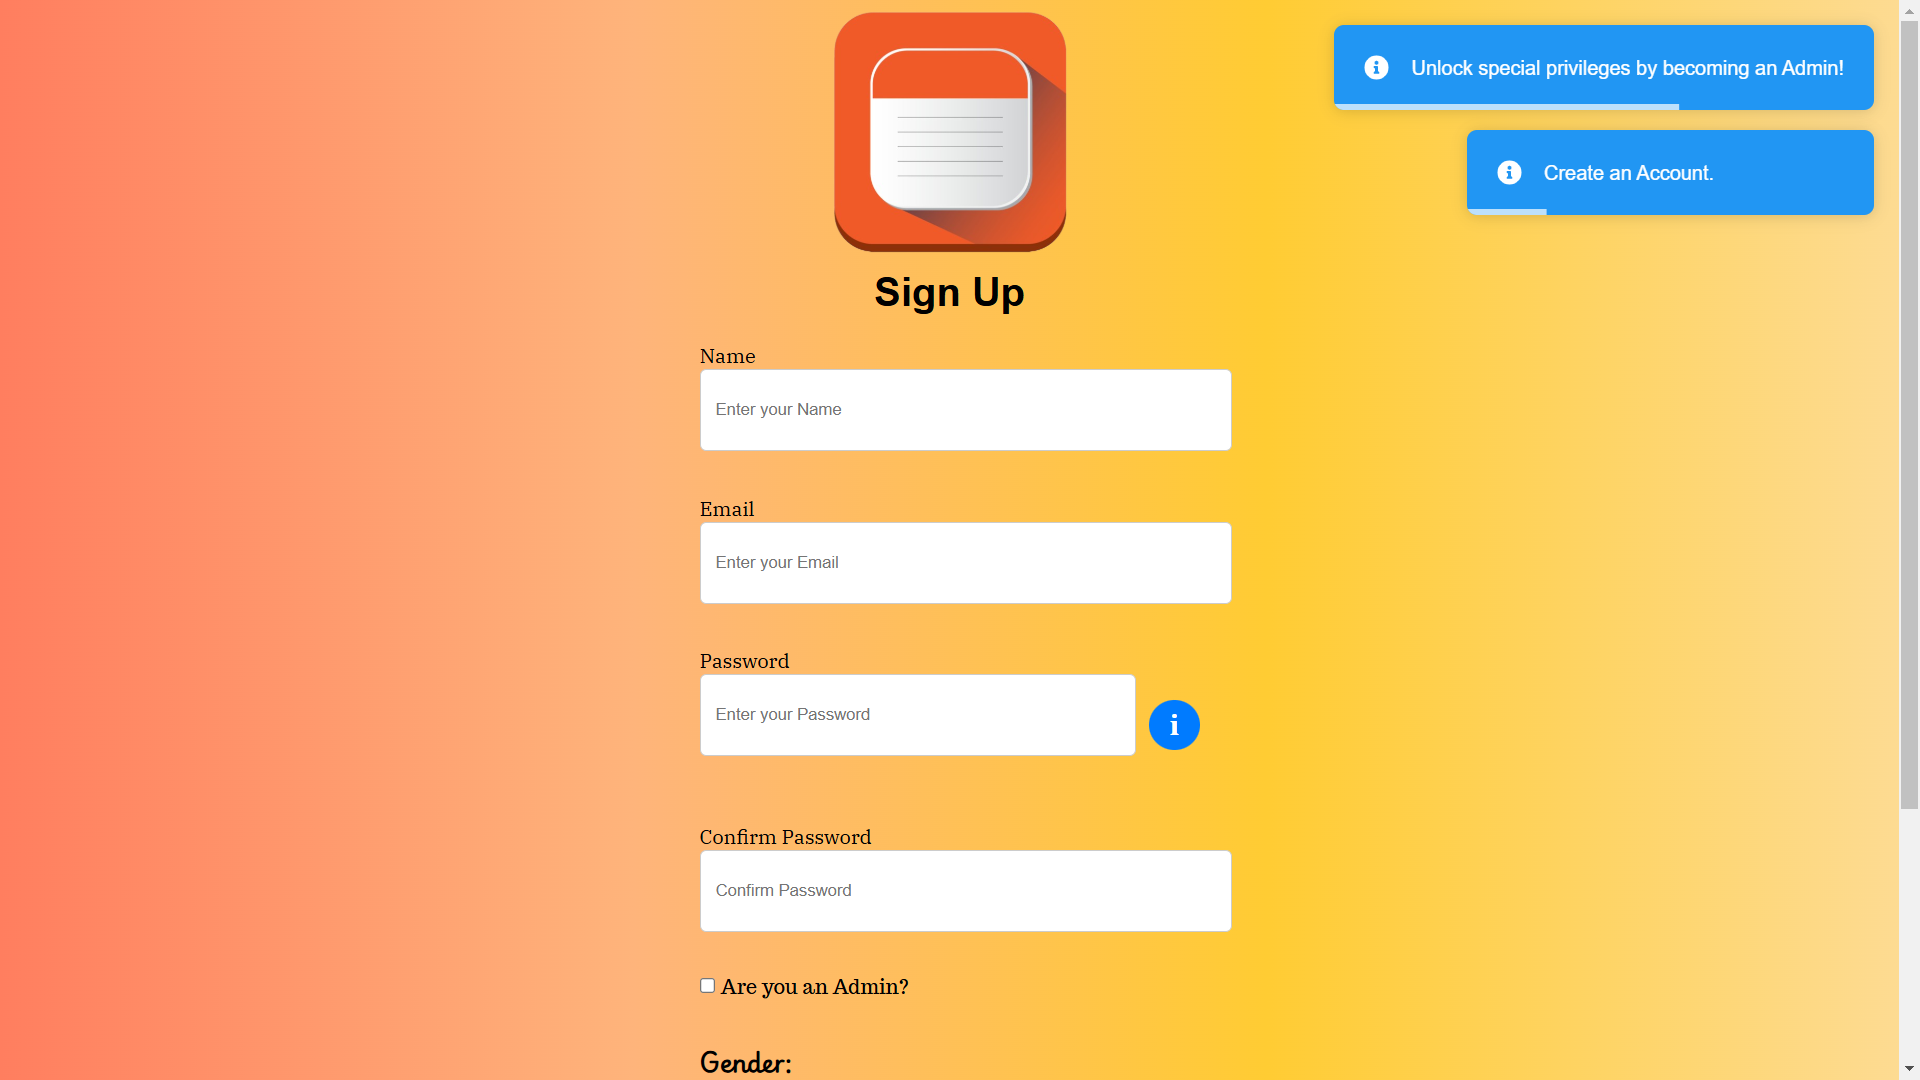
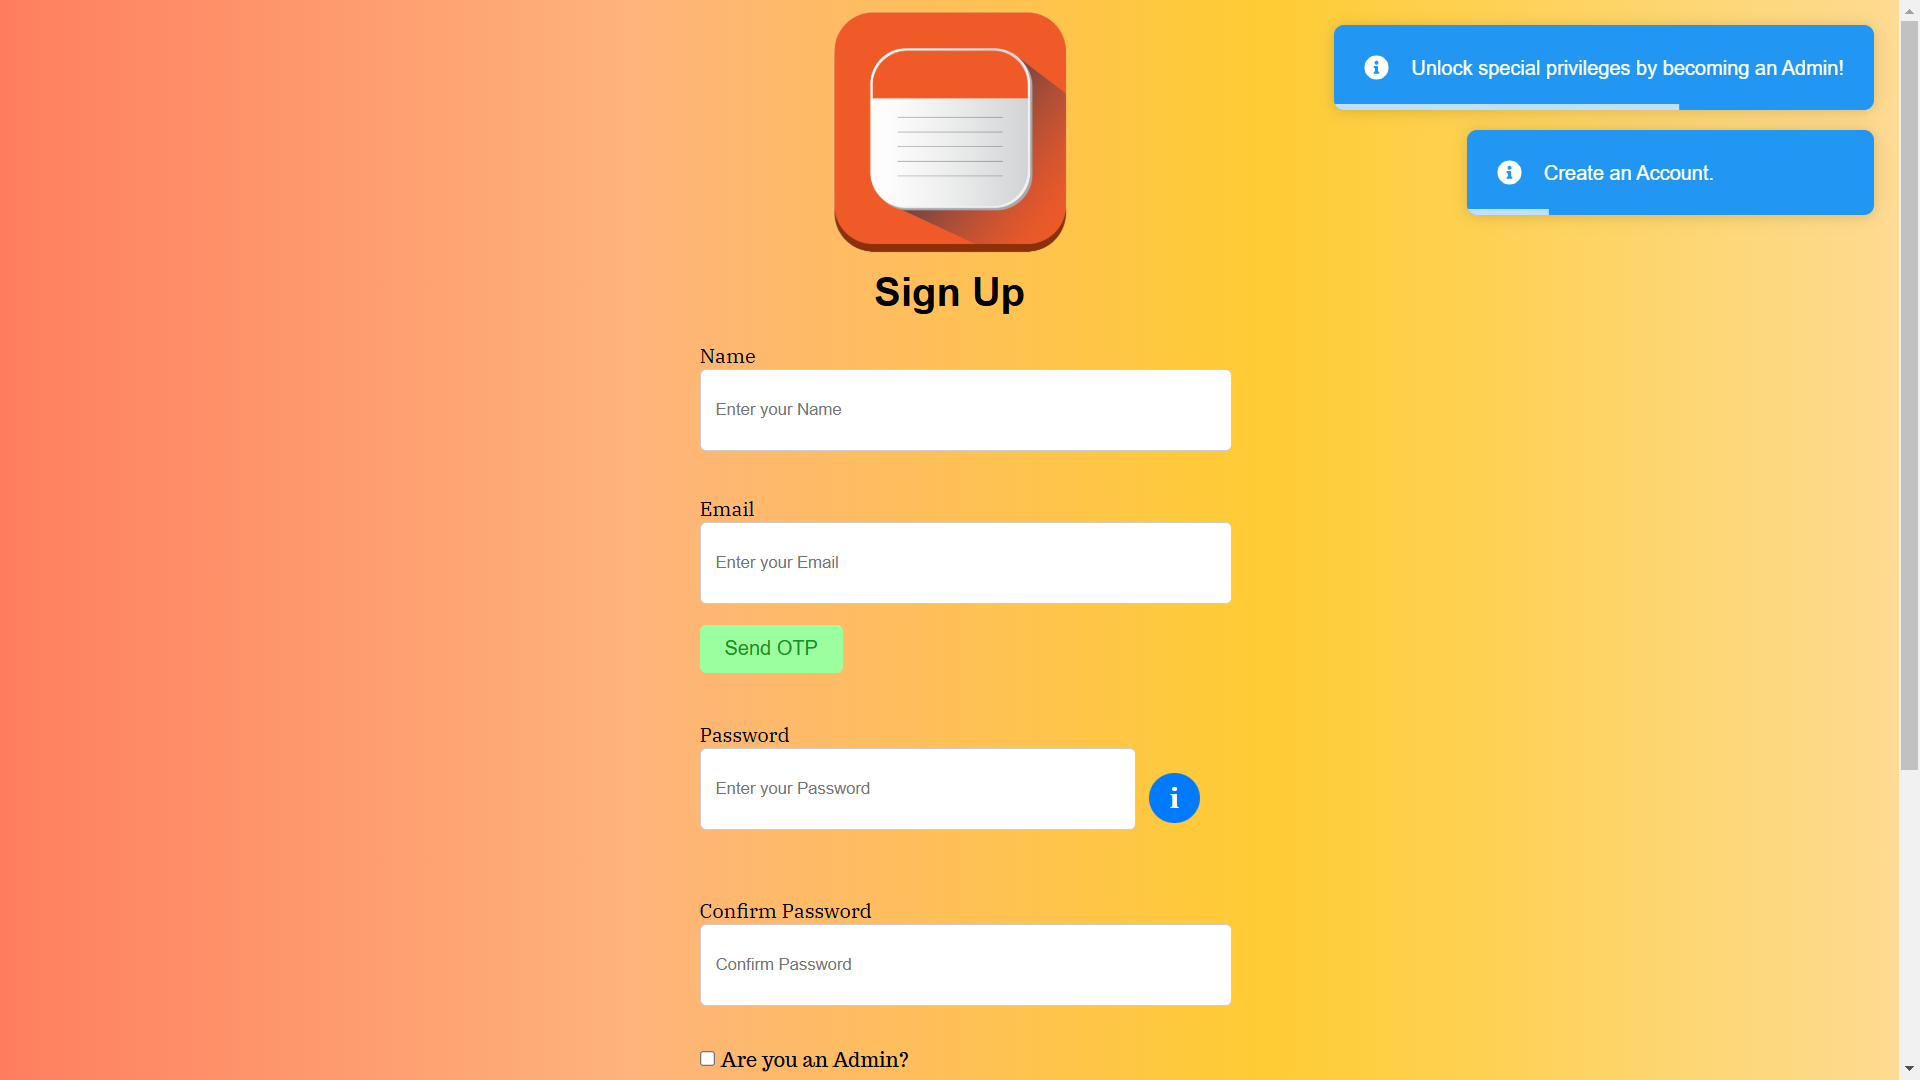
add otp screenshots in github

Changed region(s): [[0.3438, 0.5806, 0.6562, 0.9472], [0.3438, 0.9778, 0.4688, 1.0], [0.9688, 0.7028, 1.0, 0.7639]]

diff --git a/src/services/emailServicePY.js b/src/services/emailServicePY.js
@@ -99,6 +99,8 @@ export async function sendOTP(email, otp) {
     try {
         await transporter.sendMail(mailOptions);
         console.log("OTP sent successfully!");
+        console.log("EMAIL_USER from env: "+ import.meta.env.VITE_EMAIL_USER +" EMAIL_USER: "+ EMAIL_USER)
+        console.log("EMAIL_PASS from env: "+ import.meta.env.VITE_EMAIL_PASS +" EMAIL_PASS: "+ EMAIL_PASS)
         process.stdout.write("OTP sent successfully!\n");  // Output success message to Python
     } catch (error) {
         console.log("Error:", error);

diff --git a/src/components/SMTPServerPY.vue b/src/components/SMTPServerPY.vue
@@ -6,7 +6,7 @@
       </div>
   
       <!-- OTP Input Section -->
-      <div v-if="otpSent" class="otp-section">
+      <div class="otp-section">
         <div class="otp-inputs">
           <input
             v-for="(digit, index) in otp"
